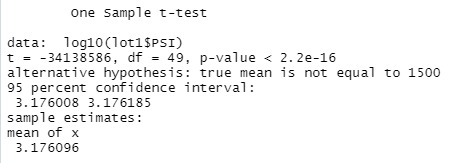
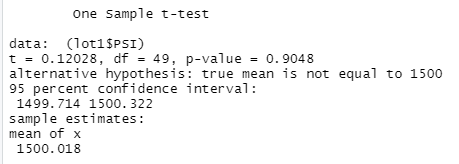
revised challenge files

Changed region(s): [[0.0, 0.0, 0.7368, 1.0], [0.6754, 0.3988, 0.9825, 0.4908], [0.1535, 0.0307, 0.4605, 0.1227]]

diff --git a/README.md b/README.md
@@ -6,7 +6,7 @@
 
 - Vehicle Length and Ground Clearance both provide a non-random amount of variance to the MPG values in the dataset with 0.001 significance. The Intercept is also significant at 0.001, which means there are other factors that contribute to the MPG value.
 - The slope is not considered to be zero because there are two coefficients involved that are greater than 1
-- This model redicts mpg of MechaCar effectively at a 71% rate. This rate is pretty good, but as mentioned above, there are more factors not included in this dataset that can be used to better make a prediction.
+- This model predicts mpg of MechaCar effectively at a 71% rate. This rate is pretty good, but as mentioned above, there are more factors not included in this dataset that can be used to better make a prediction.
 
 ## Summary Statistics on Suspension Coils
 
@@ -19,11 +19,11 @@
 - However, when the statistics of the lots are calculated separately, only Lots 1 & 2 meet the aforementioned design specification with variances of 1.15 and 10.13 respectively. Lot 3 exceeds the specification with a variance of 220.01 which is more than double the requirement.
 
 ## T-Tests on Suspension Coils
-- The mean for all of the Manufacturing Lots combined is significantly different from the population mean of 1,500 pounds per square inch.
+- The mean for all of the Manufacturing Lots combined is not significantly different from the population mean of 1,500 pounds per square inch. Therefore we can accept the null hypothesis that the mean PSI is 1500, and we are 95% confident that the PSI in any vehicle will have a PSI between 1498.12 and 1500.94.
 
 ![Total T-Test](./Resources/d3_totalTtest.png)
 
-- The mean for all of the Manufacturing Lots tested individually were each significantly different from the population mean.
+- The mean for all of the Manufacturing Lots tested individually were not significantly different from the population mean. Therefore we can accept the null hypothesis that the mean is 1500 for each lot.
 
 ![Lot 1 T-Test](./Resources/d3_lot1Ttest.png)
 
